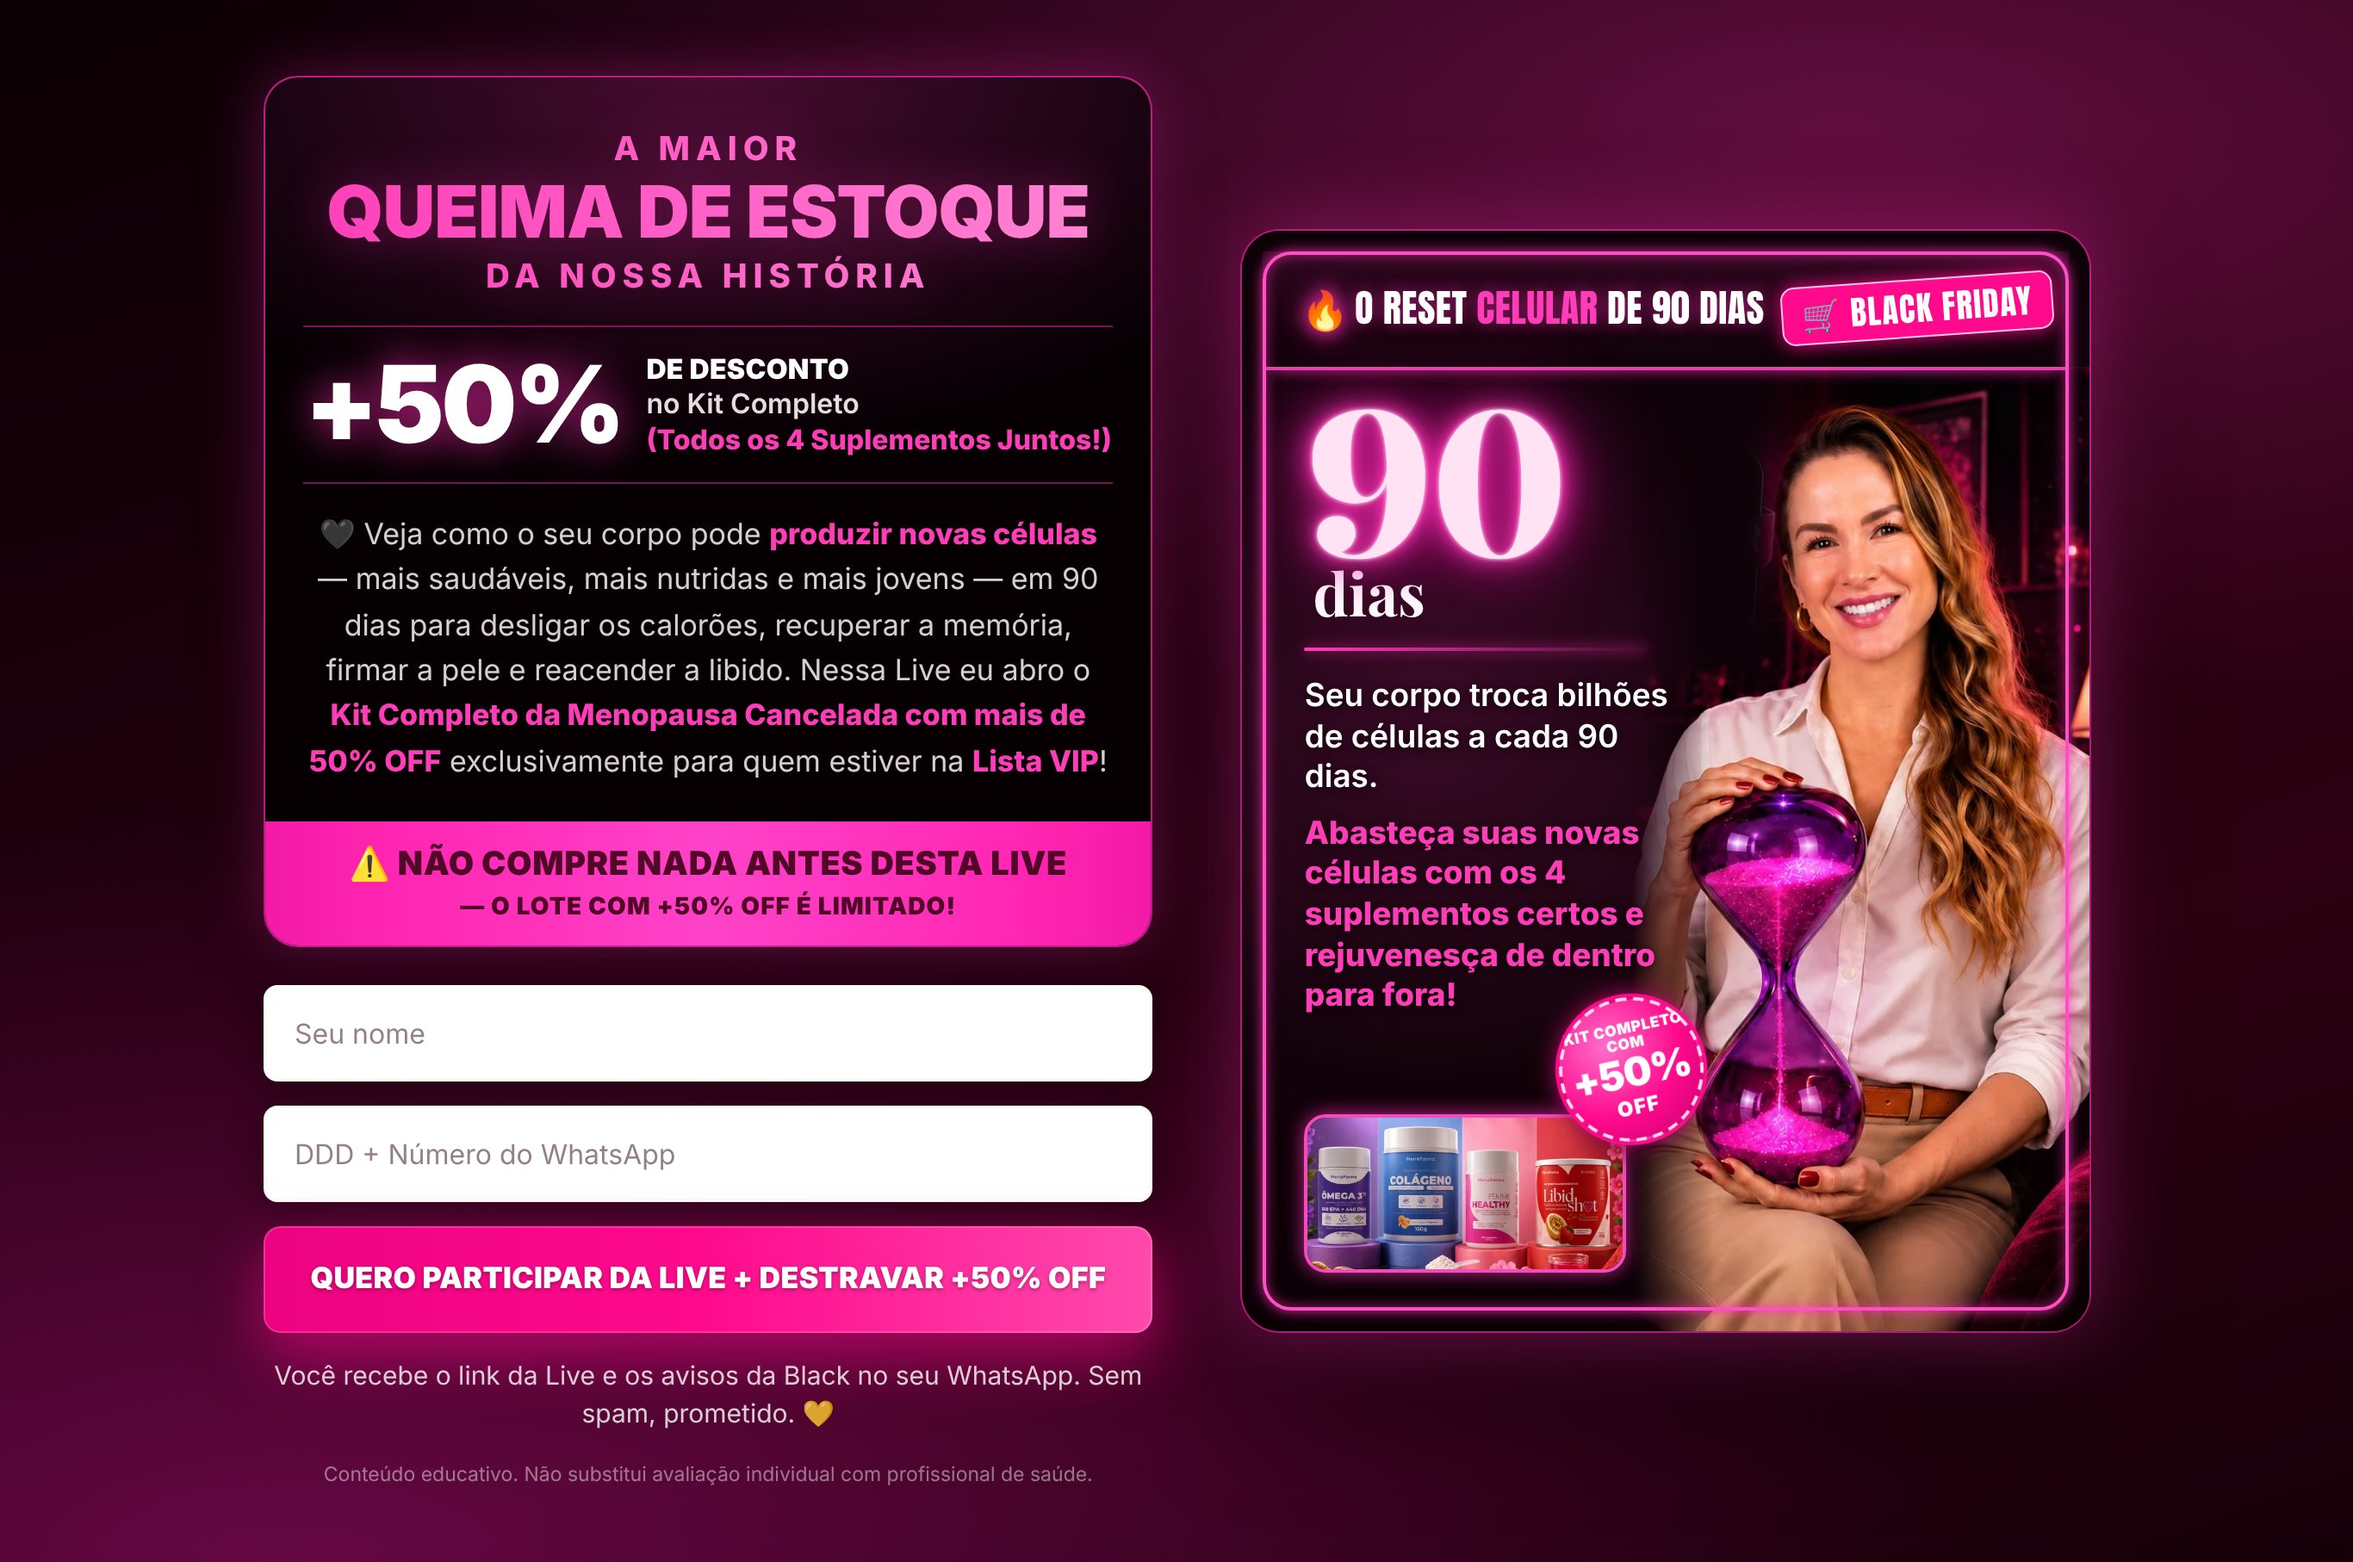
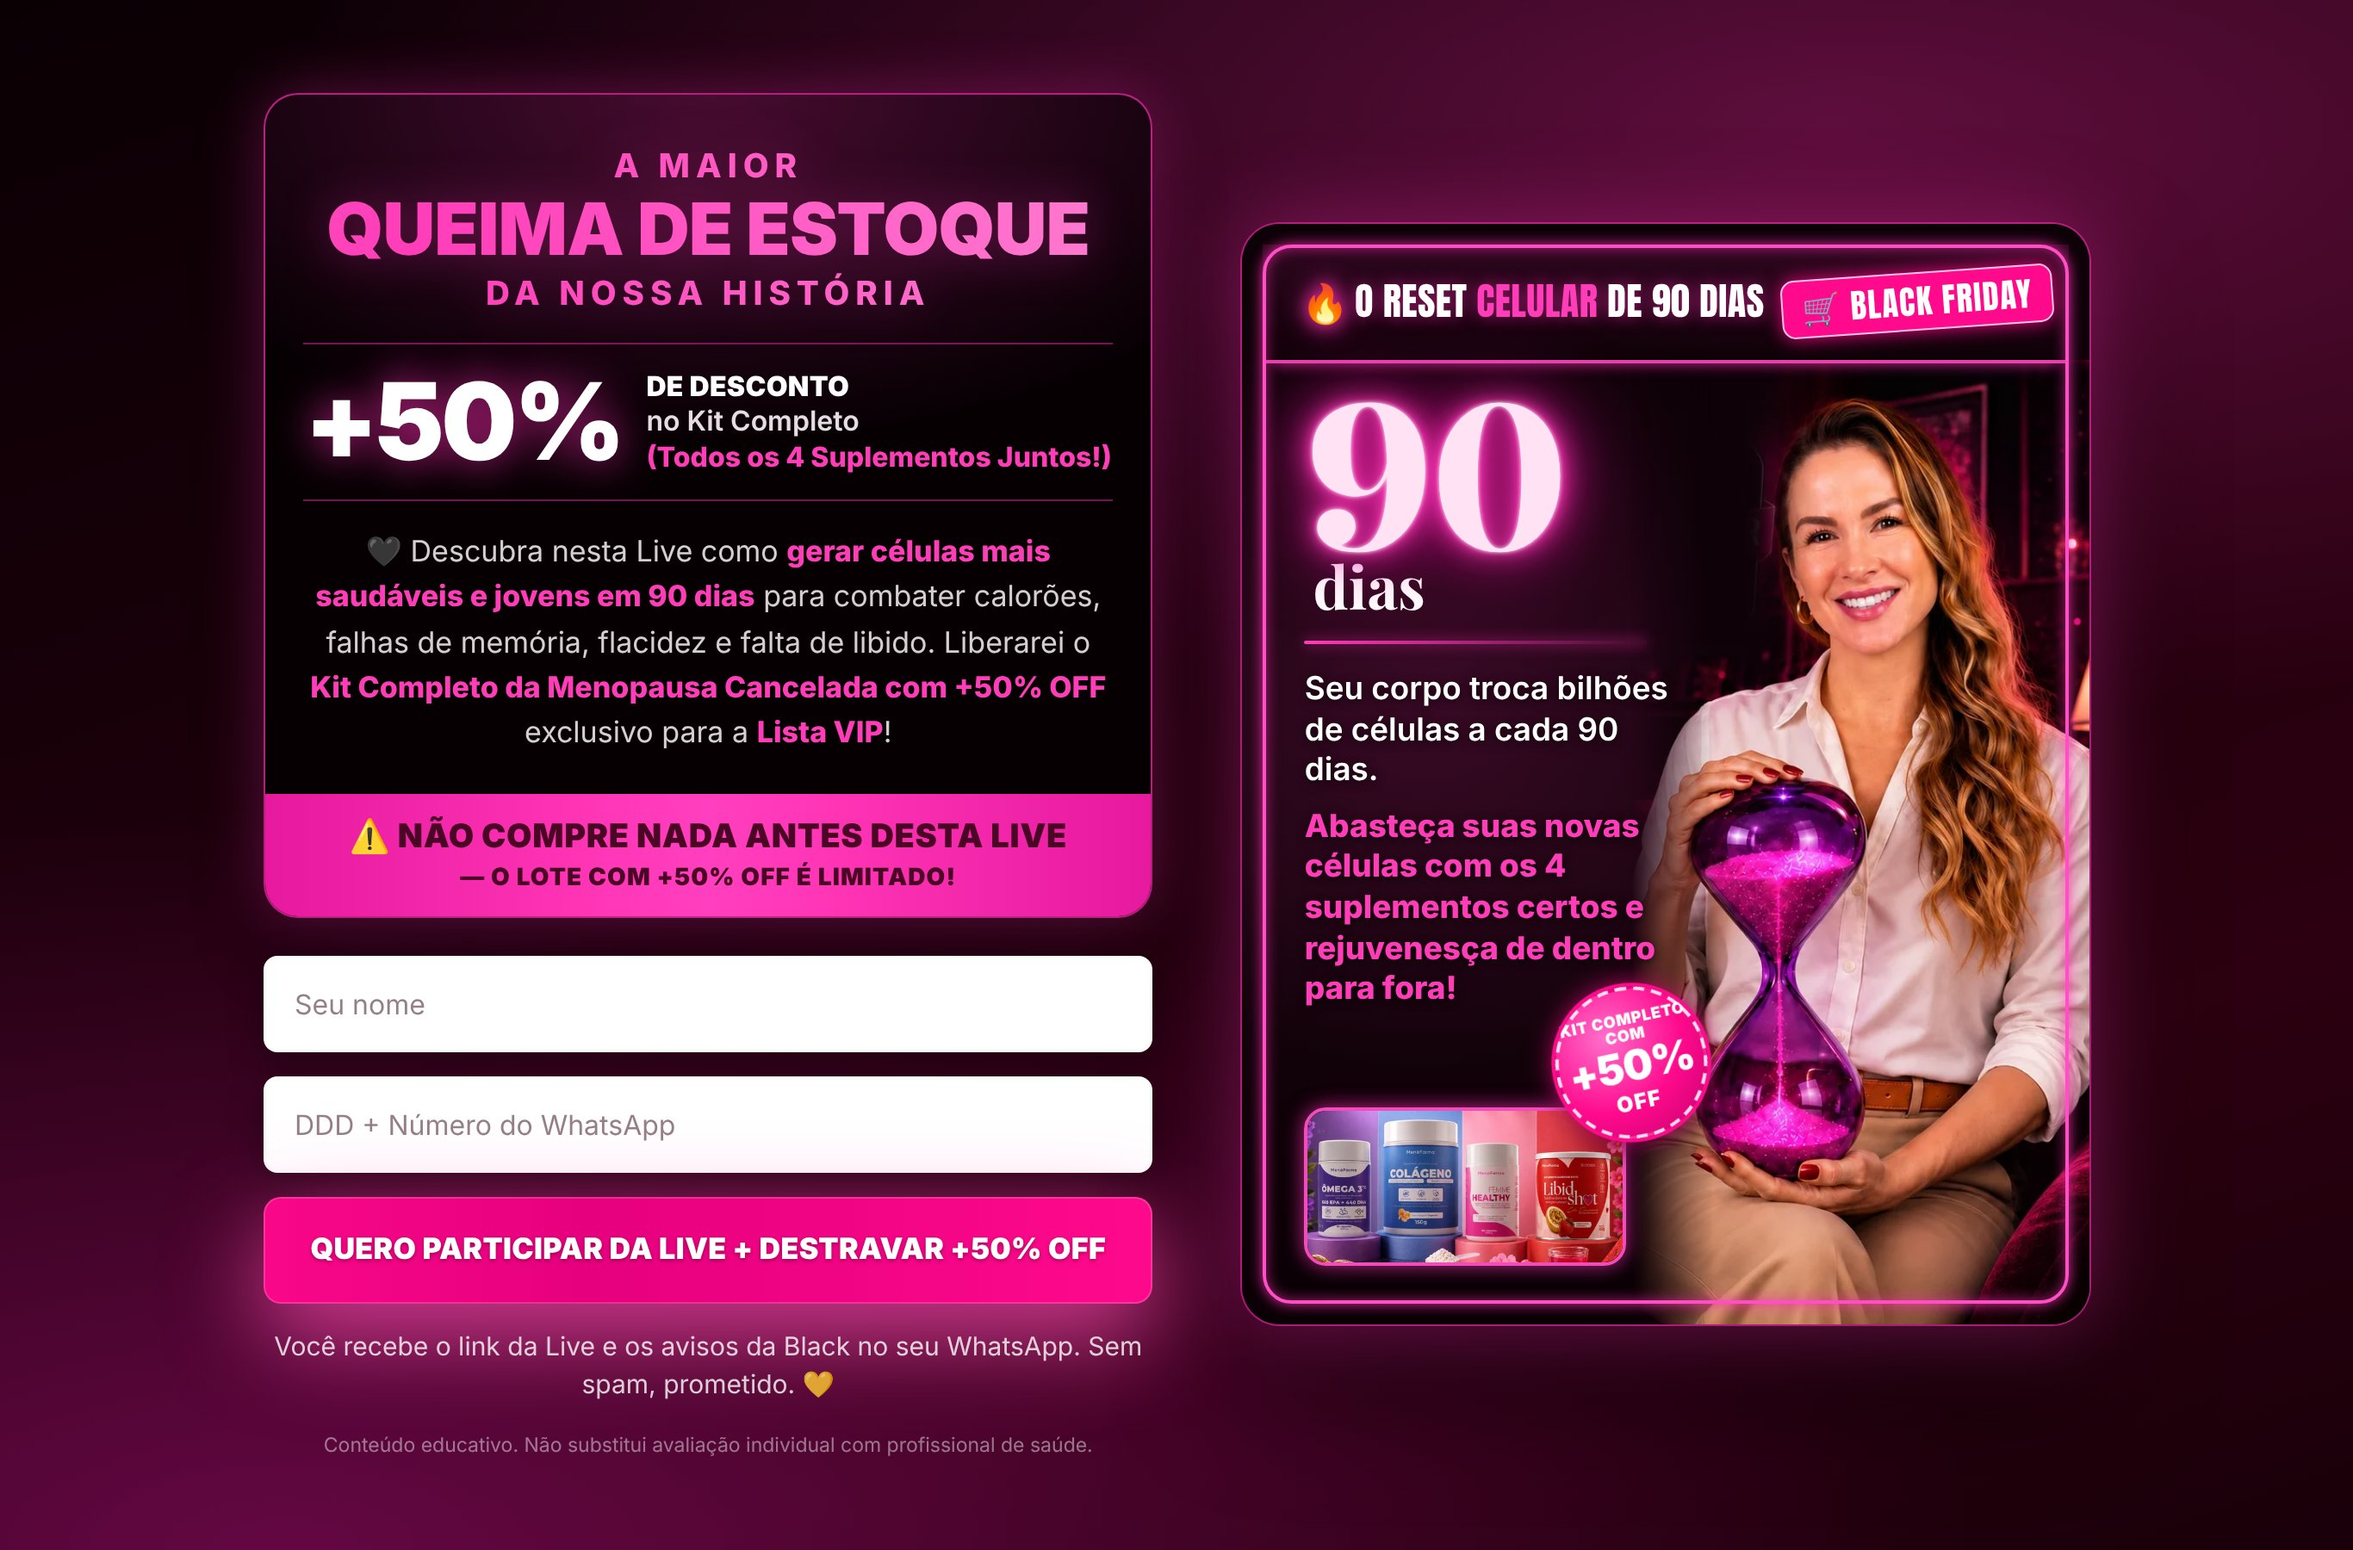
Captura Live Black: novo texto de apoio
Claude-Session: https://claude.ai/code/session_01WNQxXnAB95y5RPLTeSNP1L

diff --git a/projetos/menopausa-cancelada/06-copy/captura-live-black/index.html b/projetos/menopausa-cancelada/06-copy/captura-live-black/index.html
@@ -297,7 +297,7 @@
             <strong>+50%</strong>
             <span><b>DE DESCONTO</b>no Kit Completo<em>(Todos os 4 Suplementos Juntos!)</em></span>
           </div>
-          <p class="offer__txt">🖤 Veja como o seu corpo pode <b>produzir novas células</b> — mais saudáveis, mais nutridas e mais jovens — em 90 dias para desligar os calorões, recuperar a memória, firmar a pele e reacender a libido. Nessa Live eu abro o <b>Kit Completo da Menopausa Cancelada com mais de 50% OFF</b> exclusivamente para quem estiver na <b>Lista VIP</b>!</p>
+          <p class="offer__txt">🖤 Descubra nesta Live como <b>gerar células mais saudáveis e jovens em 90 dias</b> para combater calorões, falhas de memória, flacidez e falta de libido. Liberarei o <b>Kit Completo da Menopausa Cancelada com +50% OFF</b> exclusivo para a <b>Lista VIP</b>!</p>
           <p class="offer__warn">
             <span class="l1">⚠ Não compre nada antes desta Live</span>
             <span class="l2">— O lote com +50% OFF é limitado!</span>
